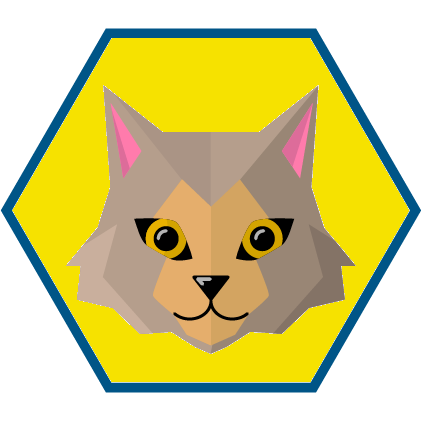
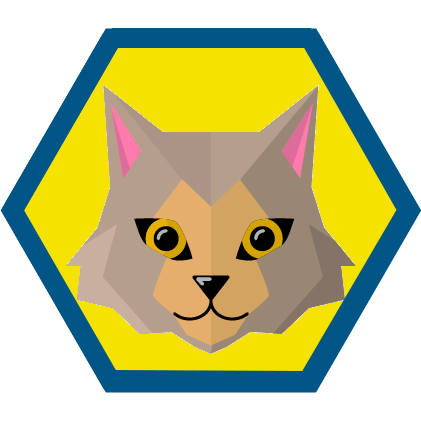
Change graphics/UI to be cleaner and added a dialog box to delete button.
- Thicker borders on animal tiles

- Added a modal fading dialog box for delete game button

Changed region(s): [[0.0309, 0.0618, 0.9881, 0.9264]]

diff --git a/imports/ui/GameButtons.jsx b/imports/ui/GameButtons.jsx
@@ -12,23 +12,44 @@ class GameButtons extends Component {
 
     render() {
         return (
-        <div className="row">
-            <div className="col-sm-4">
-                <button type="button" className="btn btn-lg btn-success" onClick={this.props.handleClickEndTurn}>
-                    {this.props.buttonText}
-                </button>
+            <div>
+                <div className="modal fade" id="confirm-delete" tabIndex="-1" role="dialog" aria-labelledby="myModalLabel" aria-hidden="true">
+                    <div className="modal-dialog">
+                        <div className="modal-content">
+                            <div className="modal-header">
+                                <button type="button" className="close" data-dismiss="modal" aria-hidden="true">×</button>
+                                <h4 className="modal-title" id="myModalLabel">Confirm Delete</h4>
+                            </div>
+                            <div className="modal-body">
+                                <p>Are you sure you want to delete this game? You cannot undo this action.</p>
+                            </div>
+                            <div className="modal-footer">
+                                <button type="button" className="btn btn-default" data-dismiss="modal">Cancel</button>
+                                <button type="button" className="btn btn-danger btn-ok" onClick={this.props.handleClickDelete}>Delete</button>
+                            </div>
+                        </div>
+                    </div>
+                </div>
+
+                <div className="row">
+                    <div className="col-sm-4">
+                        <button type="button" className="btn btn-lg btn-success" onClick={this.props.handleClickEndTurn}>
+                            {this.props.buttonText}
+                        </button>
+                    </div>
+                    <div className="col-sm-4">
+                        <button type="button" className="btn btn-lg btn-primary" onClick={this.props.handleClickLobby}>Back to
+                            lobby
+                        </button>
+                    </div>
+                    <div className="col-sm-4">
+                        <button type="button" className="btn btn-lg btn-danger"
+                                data-record-id="54" data-record-title="Something cool" data-toggle="modal" data-target="#confirm-delete">
+                            Delete game
+                        </button>
+                    </div>
+                </div>
             </div>
-            <div className="col-sm-4">
-                <button type="button" className="btn btn-lg btn-primary" onClick={this.props.handleClickLobby}>Back to
-                    lobby
-                </button>
-            </div>
-            <div className="col-sm-4">
-                <button type="button" className="btn btn-lg btn-danger" onClick={this.props.handleClickDelete}>Delete
-                    game
-                </button>
-            </div>
-        </div>
         );
     }
 }

diff --git a/imports/ui/GameDisplay.jsx b/imports/ui/GameDisplay.jsx
@@ -7,6 +7,7 @@ import { Meteor } from 'meteor/meteor';
 import { createContainer } from 'meteor/react-meteor-data';
 import { HexGrid, Layout, Hex } from '../react-hexgrid';
 import { FlowRouter } from 'meteor/kadira:flow-router-ssr';
+import { HexHelper } from '../api/HexHelper.js';
 
 /**
  * This component generates the Hex grid map (and eventually the cards) for game play
@@ -30,25 +31,32 @@ class GameDisplay extends Component {
         let config = this.props.boardConfig;
         let game = this.props.game;
         let layout = null;
+        let layout2 = null;
+        let hexagons2 = null;
 
         // create the layout if the database is loaded, and check if it's the currentUser's turn
         if (game != null && this.props.currentUser != null) {
             layout = new Layout({width: 8, height: 8, flat: true, spacing: 0}, {x: -36, y: -40});
+
+            let hexHelper = new HexHelper();
+            hexagons2 = hexHelper.initialize();
+            layout2 = new Layout({width: 8, height: 8, flat: true, spacing: 0}, {x: -36, y: -200});
         }
 
-        console.log()
-        
         return (
             <div>
                 { game ?
                     <div>
                         <div className="row">
                             <div className="col-md-12">
-                                {this.props.game ? <HexGrid width={config.width}
+                                {this.props.game ? <div>
+                                                <HexGrid width={config.width}
                                                             height={config.height}
                                                             hexagons={this.props.currentPlayer.state.hexagons}
                                                             layout={layout}
                                                             actions={this.state.actions} />
+
+                                                   </div>
                                                 : null}
                             </div>
                         </div>

diff --git a/client/main.css b/client/main.css
@@ -66,25 +66,21 @@ li {
   fill-opacity: 1;
 }
 
-.hex svg g polygon {
+svg g polygon {
   stroke: black;
   stroke-width: 0;
   transition: fill-opacity .2s;
 }
 
-.hex svg g text {
-  font-size: 0.3em;
-  fill: #000;
-  fill-opacity: 1;
+svg g {
+  width: 100%;
+  height: 100%;
 }
 
-.hex svg path {
-  fill: none;
-  stroke: hsl(60, 20%, 70%);
-  stroke-width: 0.4em;
-  stroke-opacity: 0.3;
-  stroke-linecap: round;
-  stroke-linejoin: round;
+svg g text {
+  font-size: 0.3em;
+  fill: #000000;
+  fill-opacity: 1;
 }
 
 #blocklyArea {

diff --git a/imports/api/GameHelper.jsx b/imports/api/GameHelper.jsx
@@ -87,9 +87,14 @@ class GameHelper extends Component {
     handleClickDelete(event) {
         event.preventDefault();
 
+        var $modalDiv = $('.modal');
+        $modalDiv.modal('hide');
+
         Meteor.call('games.delete', this.props.id);
 
-        FlowRouter.go('/lobby');
+        setTimeout(function() {
+            FlowRouter.go('/lobby');
+        }.bind(this), 300);
     }
 
     /**

diff --git a/imports/react-hexgrid/lib/HexText.js b/imports/react-hexgrid/lib/HexText.js
@@ -91,7 +91,7 @@
 
         return _react2.default.createElement(
           "text",
-          { x: "0", y: "0.3em", textAnchor: "middle" },
+          { x: "0", y: "-0.7em", textAnchor: "middle" },
           text
         );
       }
